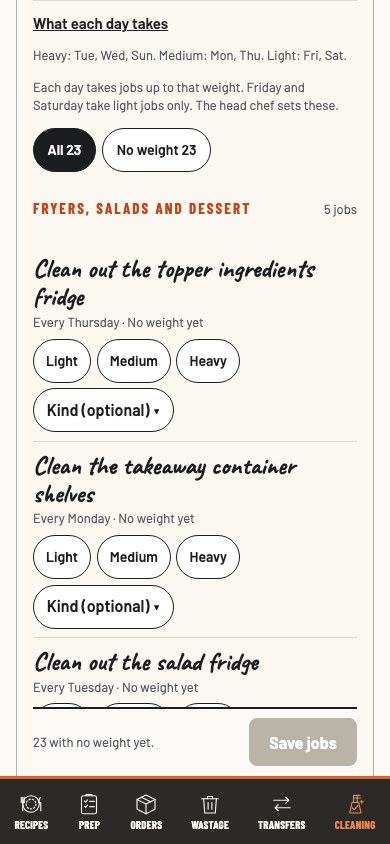
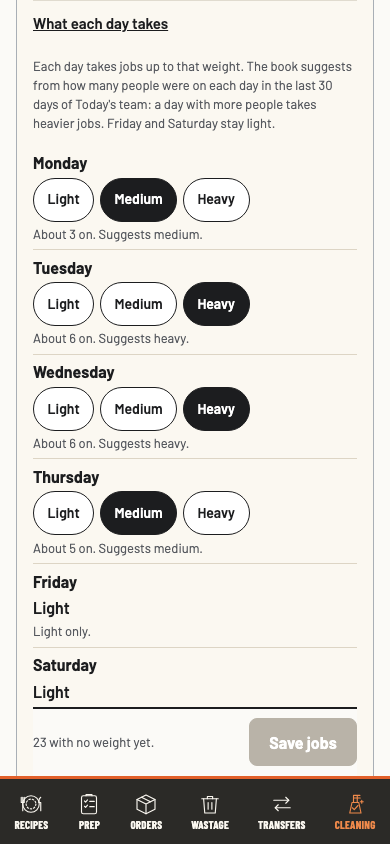
Every chef of the venue sets what each cleaning day takes
Head chef, 26 Nov 2026: "admin, headchef or sous chef of that venue, they will know best
when their busy days are". The sous chefs get the chips and Save the days; the rules go
back to the weights' writers.

Changed region(s): [[0.0615, 0.0616, 0.8923, 0.8318], [0.8308, 0.2464, 0.9231, 0.2773], [0.4308, 0.7085, 0.4615, 0.7393]]

diff --git a/js/cleaning.js b/js/cleaning.js
@@ -533,14 +533,15 @@
   /* What each day takes (head chef, 26 Nov 2026: "sunday Monday Wednesday and Thursday are the heavy days in my pub but
      we can let the admin decide which days are heavy load days and learn then based on what days we have more staff
      on"). Each weekday takes jobs up to light, medium or heavy; Friday and Saturday light only (his rule, 26 Nov).
-     Kept in the same record as d, Sunday first. Until it is saved, the page shows his days. The head chef or the
-     admin changes them (C.head()); the sous chefs read them. The book suggests from staffing: how many people were on
+     Kept in the same record as d, Sunday first. Until it is saved, the page shows his days. The chefs who set the
+     weights set the days too (head chef, 26 Nov 2026: "admin, headchef or sous chef of that venue, they will know best
+     when their busy days are"), each venue its own. The book suggests from staffing: how many people were on
      each weekday in the last 30 days of plans and picks (C.staffing()). Busier days with more people take heavier
      jobs; Friday and Saturday stay light whatever the roster says. A suggestion is never saved on its own. */
   var LEVEL_DEFAULT = [3, 3, 2, 3, 3, 1, 1], DAY_ORDER = [1, 2, 3, 4, 5, 6, 0], QUIET = [5, 6], DAY_NAME = ['Sunday', 'Monday', 'Tuesday', 'Wednesday', 'Thursday', 'Friday', 'Saturday'];
   function dayLevels() { return M.dDraft || M.plan.d || LEVEL_DEFAULT; }
   function daysDirty() { return !!M.dDraft && JSON.stringify(M.dDraft) !== JSON.stringify(M.plan.d || LEVEL_DEFAULT); }
-  function canDays() { return !!(C.head && C.head()); }
+  function canDays() { return !!(C.chef && C.chef()); }
   // a suggestion for Sunday to Thursday: a day with as many people as the middle day, or more, takes heavy; fewer, medium
   function daySuggest(s) {
     if (!s || !s.fresh || !s.avg) return null;
@@ -561,11 +562,9 @@
   function daysSummary() { var lv = dayLevels(); return [3, 2, 1].map(function (n) { var on = DAY_ORDER.filter(function (d) { return lv[d] === n; }).map(function (d) { return DAY_NAME[d].slice(0, 3); }); return on.length ? WEIGHTS[n] + ': ' + on.join(', ') + '.' : ''; }).filter(Boolean).join(' '); }
   function daysBlock() {
     if (M.plan.state !== 'ok') return '';   // drawn only from a record read from the server, never from no answer
-    var lv = dayLevels(), head = canDays(), saved = !!M.plan.d, open = M.daysOpen;
+    var lv = dayLevels(), saved = !!M.plan.d, open = M.daysOpen;
     var html = '<div class="cln-days">' + '<button type="button" class="tm-fold cln-days-fold" data-cln="days-fold" aria-expanded="' + open + '">What each day takes' + (saved ? '' : ' (not saved yet)') + '</button>';
-    if (!open || !head) html += '<p class="hint cln-days-sum">' + esc(daysSummary()) + '</p>';
-    if (!open) return html + '</div>';
-    if (!head) return html + '<p class="hint">Each day takes jobs up to that weight. Friday and Saturday take light jobs only. The head chef sets these.</p></div>';
+    if (!open) return html + '<p class="hint cln-days-sum">' + esc(daysSummary()) + '</p></div>';
     var s = M.staff, sug = s.state === 'ok' ? daySuggest(s) : null;
     var staffWords = function (d) {
       if (QUIET.indexOf(d) >= 0) return 'Light only.';
@@ -595,7 +594,7 @@
     if (!canDays() || M.dBusy || M.plan.state !== 'ok' || !C.planSave) return;
     var d = dayLevels().slice(), model = M; M.dBusy = true; M.dError = ''; patchDays();
     C.planSave(null, null, d).then(function () { if (M !== model) return; M.plan.d = d; M.dDraft = null; M.dBusy = false; M.dSaved = T.now(); patchDays(); },
-      function (error) { if (M !== model) return; M.dBusy = false; M.dError = error && error.code === 'unauthenticated' ? 'Not saved: unlock with your PIN, then press Save the days. Your change is kept here.' : error && error.code === 'permission-denied' ? 'Refused: only the head chef or the admin sets the days. Nothing was saved.' : 'Not saved. ' + (navigator.onLine === false ? 'No signal. ' : '') + 'Press Save the days again.'; patchDays(); });
+      function (error) { if (M !== model) return; M.dBusy = false; M.dError = error && error.code === 'unauthenticated' ? 'Not saved: unlock with your PIN, then press Save the days. Your change is kept here.' : error && error.code === 'permission-denied' ? 'Refused: only the head chef and the sous chefs set the days. Nothing was saved.' : 'Not saved. ' + (navigator.onLine === false ? 'No signal. ' : '') + 'Press Save the days again.'; patchDays(); });
   }
   // a weight or a kind changes this page's work without drawing it again, so nothing moves under the thumb
   function patchWeigh() { var dock = M.root && M.root.querySelector('.cln-weigh-dock'); if (dock) dock.outerHTML = weighDock(); }

diff --git a/tests/cleaning-days.test.js b/tests/cleaning-days.test.js
@@ -1,7 +1,7 @@
 // Cleaning results by section, step 4a (head chef, 26 Nov 2026, docs/cleaning-tracking-options/brief.md): What each day
 // takes. On Weights and days a fold shows what each weekday takes, light to heavy. Until it is saved the page shows his
-// days (Sunday, Monday, Wednesday and Thursday heavy, Tuesday medium, Friday and Saturday light). The head chef or the
-// admin changes them; the sous chefs read them. The book suggests from how many people were on each weekday in the
+// days (Sunday, Monday, Wednesday and Thursday heavy, Tuesday medium, Friday and Saturday light). The head chef, the sous
+// chefs and the admin change them. The book suggests from how many people were on each weekday in the
 // last 30 days (teamsum/main), never saves a suggestion on its own, and says so when the count is old, short or missing.
 // Synthetic jobs and made-up people.
 const L = require('./lib');
@@ -80,7 +80,7 @@ const saved = p => L.waitFor(p, () => /Saved|Refused|Not saved\. /.test((documen
       // refused: the change stays on screen and the page says why
       await p.evaluate(() => { window.__fake.mode = 'deny'; });
       await p.click('[data-cln="day-level"][data-dow="1"][data-w="3"]'); await p.click('[data-cln="days-save"]'); await saved(p);
-      ok(await text(p, '.cln-days-save .hint') === 'Refused: only the head chef or the admin sets the days. Nothing was saved.' && /Monday:Heavy/.test(await pressed(p)) && JSON.stringify((await stored(p)).d) === '[3,2,1,3,2,1,1]', width + ': a refused save says so and keeps the change on screen (' + await text(p, '.cln-days-save .hint') + ')');
+      ok(await text(p, '.cln-days-save .hint') === 'Refused: only the head chef and the sous chefs set the days. Nothing was saved.' && /Monday:Heavy/.test(await pressed(p)) && JSON.stringify((await stored(p)).d) === '[3,2,1,3,2,1,1]', width + ': a refused save says so and keeps the change on screen (' + await text(p, '.cln-days-save .hint') + ')');
       await p.evaluate(() => { window.__fake.mode = 'ok'; });
       await p.click('[data-cln="days-undo"]'); await L.settle(p, 150);
     }
@@ -88,12 +88,15 @@ const saved = p => L.waitFor(p, () => /Saved|Refused|Not saved\. /.test((documen
     ok(!(await p.$('.cln-days')), width + ': with the days saved, Back leaves');
     await p.context().close();
   }
-  // a sous chef reads the days and cannot change them; the team count is not read for them
+  // a sous chef sets the days too, from the same suggestions
   {
     const p = await open(b, { who: 'sam' }, 390, Object.assign(tsum(dayN(0), 28), { [PLAN]: { v: 1, w: {}, d: [3, 2, 3, 3, 2, 1, 1], at: L.NOW - DAY, by: 'head' } }));
     ok(await text(p, '[data-cln="days-fold"]') === 'What each day takes' && await text(p, '.cln-days-sum') === 'Heavy: Tue, Wed, Sun. Medium: Mon, Thu. Light: Fri, Sat.', 'sous chef: the line gives the saved days (' + await text(p, '.cln-days-sum') + ')');
     await fold(p);
-    ok(!(await p.$('.cln-day-list')) && !(await p.$('[data-cln="days-save"]')) && /The head chef sets these\.$/.test(await text(p, '.cln-days')) && !!(await p.$('.cln-days-sum')) && await tsReads(p) === 0, 'sous chef: no chips, no Save, says the head chef sets them; no team count read');
+    ok(/^Monday:Medium\|Tuesday:Heavy/.test(await pressed(p)) && (await staff(p))[0] === 'About 3 on. Suggests medium.' && await tsReads(p) <= 1, 'sous chef: the saved days on the chips, the staffing words, the team count read once (' + await pressed(p) + ')');
+    await p.click('[data-cln="day-level"][data-dow="1"][data-w="3"]'); await p.click('[data-cln="days-save"]'); await saved(p);
+    const s = await stored(p);
+    ok(s && JSON.stringify(s.d) === '[3,3,3,3,2,1,1]' && s.by === 'sam' && /^Saved \d\d:\d\d\.$/.test(await text(p, '.cln-days-save .hint')), 'sous chef: saves a change to the days, by name (' + JSON.stringify(s && { d: s.d, by: s.by }) + ')');
     await p.context().close();
   }
   // the team count is old, short or missing: no suggestion, and the page says why

diff --git a/js/prep.js b/js/prep.js
@@ -2213,22 +2213,19 @@
   // one merged save: only the jobs changed are sent, so a second chef's entries stay. w and k: { root id: value }
   // An empty map in a merged save is a value to Firestore: it would replace the stored map and wipe every entry. So a
   // map is sent only when it holds a change. A kind of '' clears that job's kind (the page reads '' as none).
-  // d: what each weekday takes, Sunday first, 1 light to 3 heavy (step 4, 26 Nov 2026), sent only by the head chef or
-  // the admin, and only whole: the rules check all seven.
+  // d: what each weekday takes, Sunday first, 1 light to 3 heavy (step 4, 26 Nov 2026), set by the same chefs as the
+  // weights, and only whole: the rules check all seven.
   function cleaningPlanSave(w, k, d) {
     var hasW = !!w && typeof w === 'object' && Object.keys(w).length > 0, hasK = !!k && typeof k === 'object' && Object.keys(k).length > 0;
     var hasD = Array.isArray(d) && d.length === 7 && d.every(function (v) { return v === 1 || v === 2 || v === 3; });
     if (!canW()) return Promise.reject(cleaningError('unauthenticated'));   // the PIN session lapsed: unlock, then save
-    if (!cleaningChef() || !(hasW || hasK || hasD) || (hasD && !cleaningHead())) return Promise.reject(cleaningError('permission-denied'));
+    if (!cleaningChef() || !(hasW || hasK || hasD)) return Promise.reject(cleaningError('permission-denied'));
     var data = { v: 1, at: now() };
     if (hasW) data.w = w;
     if (hasK) data.k = k;
     if (hasD) data.d = d.slice();
     return W([['set', docRef('cleaningPlan', 'main'), data, true]]);
   }
-  /* Who says what each weekday takes (head chef, 26 Nov 2026: "let the admin decide which days are heavy load days"):
-     the head chef, or the owner's admin device. The sous chefs see the days and cannot change them. */
-  function cleaningHead() { var c = S.config || {}; return cleaningChef() && (admDev() || (!!S.who && S.who === c.headId)); }
   /* The suggestion for what each weekday takes, from staffing (head chef, 26 Nov 2026: "learn then based on what days
      we have more staff on"). How many people were on each weekday, from teamsum/main: the last 30 days of the chefs'
      plans and the cooks' own picks, written each night. When: the head chef opens What each day takes. Through
@@ -2398,7 +2395,7 @@
       box: function (done) { return done ? TICK : BOX; }, sheetBusy: function () { return sheetOpen() || ksWait || ovBack || dkFirstUp(); }, sheetNext: sheetNext,
       discardAttempt: function () { cleaningAttempt = null; cleaningActionAttempts = Object.create(null); },
       load: cleaningLoad, saveTask: cleaningSave, archiveTask: cleaningArchive, tick: cleaningTick, undo: cleaningUndo, canUndo: cleaningCanUndo,
-      importTasks: cleaningImport, planRead: cleaningPlanRead, planSave: cleaningPlanSave, head: cleaningHead, staffing: cleaningStaffing, act: cleaningAct, newSlot: cleaningNewSlot, due: cleaningDue, who: function () { return S.who; },
+      importTasks: cleaningImport, planRead: cleaningPlanRead, planSave: cleaningPlanSave, staffing: cleaningStaffing, act: cleaningAct, newSlot: cleaningNewSlot, due: cleaningDue, who: function () { return S.who; },
       canVerify: function (task) { return cleaningTickOK() && !!task.plan && task.plan.verification && task.plan.verifiers.indexOf(S.who) >= 0; } };
   }
   /* Supplier workspace (24 Oct 2026). This bridge shares the kitchen's sign-in, writer, clock and pending-write

diff --git a/docs/cleaning-tracking-options/brief.md b/docs/cleaning-tracking-options/brief.md
@@ -352,7 +352,7 @@ Answered on 26 November 2026 by "Yes proceed with your recommendations": build i
 1. ~~Do Sunday, Monday and Wednesday take heavy jobs?~~ Answered: Sunday, Monday, Wednesday and Thursday, and the book learns from staffing (Step 4a below).
 2. "Not just limited to tasks that happen more than once a day": every rhythm, or jobs done at each service?
 3. A shared job that names sections (the pass shelves, behind the deep fryers): which one section owns it?
-4. Who sets what each day takes and presses Suggest the days: ~~the admin, or the chefs?~~ What each day takes: the admin, so the head chef or the admin (Step 4a). Suggest the days: still his call, with step 4b.
+4. Who sets what each day takes and presses Suggest the days: ~~the admin, or the chefs?~~ What each day takes: "admin, headchef or sous chef of that venue" (Step 4a). Suggest the days: still his call, with step 4b.
 5. The two suggested planner rules: keep, change or drop?
 
 Who was rostered is no longer a question for him: step 1 keeps both the closing plan and a cook's own pick, each with its source.
@@ -366,7 +366,7 @@ Who was rostered is no longer a question for him: step 1 keeps both the closing 
 | 1 | The nightly count: the release switch and the first night, weekly and monthly jobs by root id with section, who did it and who was rostered, the size check inside the cleaning block | [#890](https://github.com/KuschiKuschbert/leichhardt-kitchen/pull/890), merged 26 November 2026. What it keeps: [the cleaning note](../cleaning-schedule.md#what-the-nightly-count-keeps) |
 | 2 | The Inbox row and that night in Records | Built, 26 November 2026. What the admin sees: [the cleaning note](../cleaning-schedule.md#what-the-admin-sees-of-it). As built: `built/` |
 | 3 | The weights list, weights in one side record | Built 26 November 2026: weights and the optional kind. What each day takes is in the same record's rule, set with step 4. [The cleaning note](../cleaning-schedule.md#weights-and-days) |
-| 4a | What each day takes: his days until changed, set by the head chef or the admin, a suggestion from staffing | Built 26 November 2026. [The cleaning note](../cleaning-schedule.md#what-each-day-takes); quick check below |
+| 4a | What each day takes: his days until changed, set by each venue's chefs, a suggestion from staffing | Built 26 November 2026. [The cleaning note](../cleaning-schedule.md#what-each-day-takes); quick check below |
 | 4b | Suggested days, in bulk only while Cleaning is off, fewest moves | To come |
 | 4c | A suggested day in the Add form after switch-on, with the "today means tonight" warning | To come |
 
@@ -375,7 +375,7 @@ Who was rostered is no longer a question for him: step 1 keeps both the closing 
 The council drew what each day takes as a row of seven levels on the weights list (`m1`, `m2`) and asked the head chef questions 1 and 4. His answer (26 November 2026) added something the council did not see: "learn then based on what days we have more staff on". So step 4 is split: 4a sets the days, 4b suggests the jobs' days, 4c is the Add form. 4a adds no page, tab, button bar or pop-up; it is a fold on a view the council chose. Quick check, no new review round.
 
 - **Is it needed?** Yes: step 4b cannot suggest a day without knowing what each day takes, and he asked for it to learn.
-- **Taps.** Head chef: Repeat tasks, Weights and days, What each day takes, Use the suggestions, Save the days: 4 taps from Repeat tasks; one tap more for each day he changes by hand. A sous chef reads the days in the line under the fold with no tap.
+- **Taps.** Head chef: Repeat tasks, Weights and days, What each day takes, Use the suggestions, Save the days: 4 taps from Repeat tasks; one tap more for each day changed by hand. A sous chef the same. With the fold closed, the line under it gives the days with no tap.
 - **Lines.** Implemented app, click-test stand-in, synthetic jobs and a made-up team count (`built/days-shots.cjs`, `built/days-counts.json`). Closed, the fold and its line are 64 px: whole job rows on the first screen go from 0 to 0 at 390 x 844, 3 to 2 at 768 x 900 and 4 to 3 at 1280 x 900; the list is 6.3 screens at 390, was 6.2. Open, the days are 922 px at 390 (1.1 screens) and 656 px at 1280. A desk job, done once, so worth the row.
 - **Contract fit.** Works: chips and the fold are existing patterns; chosen is ink, words carry every state ("Not saved.", "Saved 14:05.", "Refused: ..."), the summary line and "Light only" say it without colour; every control is 44 px; no sideways scroll at 390, 768 and 1280. The days have their own Save line, not the list's Save bar, so "Save jobs" and "Save the days" never share a button. Not evidenced: contrast was not measured again (no new colour; the chips and hint are the step 3 ones).
 - **Reference fit.** Todoist: known defaults visible and editable (his days, shown before anything is saved). Flighty: the staffing words come from data the page may already hold, never stale as live ("The team count is not up to date"). Duolingo: each tap answers at once, Saved only after the write. Headspace: "About 6 on. Suggests heavy." in plain words.
@@ -385,9 +385,9 @@ Break-it findings, each checked in `tests/cleaning-days.test.js` (stand-in) or `
 
 | Scenario | Expected | Observed |
 | --- | --- | --- |
-| A sous chef writes `d` by hand | Refused | Checked on the emulator: refused, first save or change; a sous chef's weight save leaves the days |
+| Staff write `d` by hand | Refused | Checked on the emulator: refused. A weight save leaves the days, a days save the weights |
 | Another chef saves weights while the head chef has unsaved days | Both kept | Checked: one merged write keeps the other chef's weight |
-| A refused save | Says so, keeps the change | Checked: "Refused: only the head chef or the admin sets the days. Nothing was saved." with the chip still on |
+| A refused save | Says so, keeps the change | Checked: "Refused: only the head chef and the sous chefs set the days. Nothing was saved." with the chip still on |
 | Back with unsaved days | Stays and says so | Checked, focus on Save the days |
 | An old, short, missing or unreadable team count | No suggestion, the reason in words | Checked for all four; a failed read is never "no count" |
 | A roster that is busy on Friday | Friday stays light | Checked: Friday and Saturday never take a suggestion |

diff --git a/README.md b/README.md
@@ -229,7 +229,7 @@ This guide is bundled with the book, searchable and readable without extra Fires
 - **The audit's fixes (14 Nov 2026).** An order request already open today is not added again (Add anyway on the slip). Every suggestion is counted, with changes after the guess, in the admin's Smart features. Reports, Transfers keeps loans older than its days, and the Insights and wastage CSVs have On it and amount changes. Records keeps each day's Operandio cooling batch (who started and confirmed each stage, from the nightly job). [Brief](docs/smart-book-options/brief.md).
 - **Print cards (19 Nov 2026, head chef choice after the council).** The head chef, sous chefs and admin print paper recipe cards: Print cards in Manage Recipes (tick cards, or add Specials, a menu section, Batch recipes or Every card) and Print this card beside Change this recipe on a recipe. Paper A4 upright, A4 sideways or A5 sideways, kept on the device. Paper and group choices keep keyboard focus. Each card starts on a new page; a card just over a page takes slightly smaller type before it splits, a list never breaks through a row or a step, and every page repeats the card number, name, page x of y, the allergens in a box and the print time with "Check the book for the latest". Amounts as written (x1); unconfirmed ones say [To come]. A tap on Print or a card says so at once; the cards are laid out after it, one card at a time (24 Nov 2026). No reads or writes; `js/recipe-print.js` and `css/recipe-print.css` load only when a chef opens it. [Brief, council and build](docs/print-cards-options/brief.md).
 - **Filled for you and Records (13 Nov 2026, head chef choice after the smarter-book audit).** On Wastage and Transfers an item typed in full fills what describes it from its last 2 weeks (Wastage: section, reason, unit; Transfers: unit), never the amount, with a LAST TIME tag, one line saying what was filled and Empty these boxes; Log it says what it saves. Orders names its usual amount fill under the box. Reports, Records lists each finished day's deliveries and cleaning (missed, not possible, awaiting Pass check) from the nightly count, opens a day in time order (Food safety, or Everything), and prints a month or a day: 1 read to open. The month name sits with the month buttons, and Print this month and Export CSV remain directly available. [Brief, council and build](docs/smart-book-options/brief.md).
-- **Weights and days for cleaning jobs (26 Nov 2026, head chef, results by section, step 3 of 4).** Repeat tasks says how many weekly and monthly cleaning jobs have no weight yet, and Weights and days lists them by section: Light, Medium or Heavy and an optional kind on each, one Save. Only the head chef and the sous chefs see it. The weights are kept in one record by each job's lasting id, so a job moved to another day keeps its weight. Step 4 uses them to suggest days. Step 4a adds What each day takes: his days (Sunday, Monday, Wednesday and Thursday heavy, Tuesday medium, Friday and Saturday light) until the head chef or the admin changes them, with a suggestion for each day from how many people were on it in the last 30 days. [Contract](docs/cleaning-schedule.md#weights-and-days).
+- **Weights and days for cleaning jobs (26 Nov 2026, head chef, results by section, step 3 of 4).** Repeat tasks says how many weekly and monthly cleaning jobs have no weight yet, and Weights and days lists them by section: Light, Medium or Heavy and an optional kind on each, one Save. Only the head chef and the sous chefs see it. The weights are kept in one record by each job's lasting id, so a job moved to another day keeps its weight. Step 4 uses them to suggest days. Step 4a adds What each day takes: his days (Sunday, Monday, Wednesday and Thursday heavy, Tuesday medium, Friday and Saturday light) until the head chef, a sous chef or the admin changes them, with a suggestion for each day from how many people were on it in the last 30 days. [Contract](docs/cleaning-schedule.md#weights-and-days).
 - **Missed cleaning in the Inbox and in Records, by section (26 Nov 2026, head chef, results by section, step 2 of 4).** When a weekly or monthly cleaning job was missed last night, the admin's Inbox has one row for the night: Missed, the sections and their jobs, and the date. It names no person. Open that night goes to Reports, Records on that day, at Weekly and monthly jobs, by section: the section with a miss first, when that job was missed before and last done, and the section's other jobs. No person's name is on the page until you open a section's fold: there, who was on that section, from the plan and from each cook's own pick, and who did its jobs. The Inbox says nothing while Cleaning is not switched on, and "Not counted yet" before the nightly run. No new read. [Contract](docs/cleaning-schedule.md#what-the-admin-sees-of-it), [brief](docs/cleaning-tracking-options/brief.md).
 - **The cleaning count starts when Cleaning is switched on (26 Nov 2026, head chef, results by section, step 1 of 4).** The nightly count now covers a day only from the day it first finds Cleaning switched on for the team. Every earlier day reads "Cleaning: not counted" in Records, so cleaning jobs loaded before switch-on never show as missed. The day Cleaning is switched on is not counted; the next one is. For each weekly or monthly job the count also keeps its section, whether it was done and who did it, and for a section with a missed job who was on that day, from the plan and from each cook's own pick. The Inbox row and the Records night above read them. [Contract](docs/cleaning-schedule.md#what-the-nightly-count-keeps), [brief](docs/cleaning-tracking-options/brief.md).
 - **Complete Records and Transfers exports (23 Nov 2026).** Records keeps the selected day while you retry a read. In Everything, Print this day and Export CSV become available once the nightly count and all sections load. Food safety still uses the nightly record. Transfers flags missing dates and enables Download CSV once the selected dates and earlier outstanding transfers load. Refresh keeps the period and venue. An open Export menu stays open when a late read redraws the page (24 Nov 2026). [Report exports](docs/report-exports.md)

diff --git a/docs/head-chef-decisions.md b/docs/head-chef-decisions.md
@@ -2,7 +2,7 @@
 
 - **26 November 2026, the Functions fold on five more pages.** Shown the step 2 findings on the 1920 x 1080 section screens, the head chef said "Yes all recommendations". Wastage, Transfers, Cleaning, Today's team and the recipe card now open with Orders' fold: one 50 px line on a routine day instead of the 218 px band, opening by itself for a cancellation, move, change, kitchen comment, a trip waiting for you, a short-notice order, a round due within the hour, No signal or Could not load. Show on one fold page lasts for that person and kitchen day on every fold page. This changes 22 October 2026 (the full band on every page) and widens 23 November 2026 (the fold on Orders). The Recipes list, Home and the other pages keep the full band and its minus; Prep keeps its strip. [Decision and measurements](band-options/brief.md#the-fold-on-five-more-pages-26-november-2026).
 
-- **26 November 2026, what each day takes: his days first, set by the head chef, suggested from staffing.** Asked which days take heavy cleaning jobs, the head chef said: "Yeah sunday Monday Wednesday and Thursday are the heavy days in my pub but we can let the admin decide which days are heavy load days and learn then based on what days we have more staff on to have a smart distribution?" So Weights and days has What each day takes: until it is saved, Sunday, Monday, Wednesday and Thursday take heavy jobs, Tuesday medium, Friday and Saturday light only (his rule from the scope). The head chef or the admin changes the days; the sous chefs read them. The book suggests a day's level from how many people were on that weekday in the last 30 days of Today's team (more people, heavier jobs), and only when there are three weeks of that day; a suggestion goes in only when he taps Use the suggestions, and nothing saves until Save the days. This answers the brief's questions 1 and 4 (`docs/cleaning-tracking-options/brief.md`, Step 4a). Detail: `docs/cleaning-schedule.md`, What each day takes.
+- **26 November 2026, what each day takes: his days first, set by each venue's chefs, suggested from staffing.** Asked which days take heavy cleaning jobs, the head chef said: "Yeah sunday Monday Wednesday and Thursday are the heavy days in my pub but we can let the admin decide which days are heavy load days and learn then based on what days we have more staff on to have a smart distribution?" So Weights and days has What each day takes: until it is saved, Sunday, Monday, Wednesday and Thursday take heavy jobs, Tuesday medium, Friday and Saturday light only (his rule from the scope). Asked whether "the admin" meant his device only, he said: "well admin, headchef or sous chef of that venue, they will know best when their busy days are" (spelling tidied). So the head chef, the sous chefs and the admin change the days, as they set the weights, each venue its own. The book suggests a day's level from how many people were on that weekday in the last 30 days of Today's team (more people, heavier jobs), and only when there are three weeks of that day; a suggestion goes in only when he taps Use the suggestions, and nothing saves until Save the days. This answers the brief's questions 1 and 4 (`docs/cleaning-tracking-options/brief.md`, Step 4a). Detail: `docs/cleaning-schedule.md`, What each day takes.
 
 - **26 November 2026, Cleaning goes on at Leichhardt first, then the Strand; a missed job is called "Missed".** Asked whether Cleaning is switched on at the Strand, the head chef said: "When cleaning is on for Leichhardt we can turn cleaning on for strand too". So each venue's cleaning count starts the day after its own switch is turned on, Leichhardt first. Asked which word the results use for a job nobody ticked, he agreed to keep "Missed", the word Records and Cleaning already use, with "not ticked by midnight" as its explanation ("That's fine"). [Brief](cleaning-tracking-options/brief.md).
 

diff --git a/docs/cleaning-schedule.md b/docs/cleaning-schedule.md
@@ -80,7 +80,7 @@ Results by section, step 3 of 4 (head chef, 26 November 2026, [brief](cleaning-t
 Step 4a (head chef, 26 November 2026: "let the admin decide which days are heavy load days and learn then based on what days we have more staff on"). Each weekday takes jobs up to light, medium or heavy. Step 4b uses it to suggest days.
 
 - **Where.** A fold at the top of Weights and days, What each day takes, closed until asked for, with one line under it: "Heavy: Mon, Wed, Thu, Sun. Medium: Tue. Light: Fri, Sat." Until the days are saved the fold says "(not saved yet)" and the page shows the starting days, his for Leichhardt: Sunday, Monday, Wednesday and Thursday heavy, Tuesday medium, Friday and Saturday light.
-- **Who.** The head chef, or the admin on the owner's device (`cleaningHead()` in `js/prep.js`), sees a row a day, Monday first, with Light, Medium and Heavy. Friday and Saturday are fixed at light ("Light only"). A sous chef sees the line and "The head chef sets these", no chips. The rules hold it too: a write that changes `d` must be the head chef's or the admin's; a sous chef's save of weights leaves the days as they were.
+- **Who.** The chefs who set the weights, each venue its own: the head chef, the sous chefs and the admin ("admin, headchef or sous chef of that venue, they will know best when their busy days are"). Each sees a row a day, Monday first, with Light, Medium and Heavy. Friday and Saturday are fixed at light ("Light only"). Staff never see Weights and days. A save of weights leaves the days as they were, and a save of the days leaves the weights.
 - **The suggestion.** Opening the fold reads the team count once (`cleaningStaffing()`: `teamsum/main`, the last 30 days of the closing plans and the cooks' own picks, written each night; no read when the page already holds today's). Each Sunday to Thursday says "About 6 on" from the distinct people each day, averaged by weekday and shown whole, and a suggestion: as many people as the middle day or more, heavy; fewer, medium. A day with fewer than three counted days says "Not enough weeks yet". A count older than yesterday says "The team count is not up to date", none says "No team count yet", a failed read says "Could not read the team": none of them suggests. Use the suggestions fills the chips; nothing is saved by it.
 - **Saving.** Save the days sends all seven, Sunday first, in the same merged write as the weights, so the weights stay. It is on before the first save, so he can keep his days as they are. It answers Saved with the time, or says it was refused and keeps the change on screen. Unsaved days are the page's work like unsaved weights: Back, Today, Week or Repeat tasks says "Save the days, or Undo, before leaving" and stays.
 

diff --git a/docs/session-map.md b/docs/session-map.md
@@ -33,7 +33,7 @@ Step 2, the Inbox row and that night in Records: `cleanCount()` and `cleanNeed()
 
 Step 3, Weights and days: `cleaningPlan/{id}` in `firestore.rules` (one record, `main`), `cleaningPlanRead()` and `cleaningPlanSave()` in `js/prep.js` (on the Cleaning bridge as `planRead`, `planSave`; in the owner's backup), `weightsNotice()`, `weightsPage()`, `saveWeights()` and `patchWeigh()` in `js/cleaning.js`, `.cln-weigh-*` in `css/app.css`, `scripts/nightly-backup.mjs`. Checked by `tests/cleaning-weights.test.js` (new), `tests/rules/cleaning.test.mjs`, `tests/rules/client-shapes.test.mjs`, `scripts/backup-recovery-check.mjs`.
 
-Step 4a, What each day takes (26 Nov 2026, his days and the staffing suggestion): `d` in `cleaningPlan/main`, changed only by the head chef or the admin (`cleanPlanDays()` in `firestore.rules`); `cleaningHead()`, `cleaningStaffing()` and `cleaningPlanSave(w, k, d)` in `js/prep.js` (bridge `head`, `staffing`); `daysBlock()`, `daySuggest()`, `loadStaff()`, `patchDays()` and `saveDays()` in `js/cleaning.js`; `.cln-day*` in `css/app.css`. Checked by `tests/cleaning-days.test.js` (new) and `tests/rules/cleaning.test.mjs`. Pictures: `docs/cleaning-tracking-options/built/days-*`.
+Step 4a, What each day takes (26 Nov 2026, his days and the staffing suggestion): `d` in `cleaningPlan/main`, set by the same chefs as the weights; `cleaningStaffing()` (through `tsLoad()`) and `cleaningPlanSave(w, k, d)` in `js/prep.js` (bridge `staffing`); `daysBlock()`, `daySuggest()`, `loadStaff()`, `patchDays()` and `saveDays()` in `js/cleaning.js`; `.cln-day*` in `css/app.css`. Checked by `tests/cleaning-days.test.js` (new) and `tests/rules/cleaning.test.mjs`. Pictures: `docs/cleaning-tracking-options/built/days-*`.
 
 Open with the head chef: whether Sunday, Monday and Wednesday take heavy jobs, which section owns a shared job that names two, who sets what each day takes, and the lead's two suggested planner rules.
 

diff --git a/docs/firestore-usage.md b/docs/firestore-usage.md
@@ -46,7 +46,7 @@ Since 14 November 2026 Reports, Transfers also reads the loans still out (`trans
 
 ## Cleaning schedule extension, 9 November 2026
 
-What each day takes (26 November 2026, results by section, step 4a): the head chef or the admin opening the fold on Weights and days reads `teamsum/main` once (`cleaningStaffing()`), none when the page already holds today's count. The days are saved in the same `cleaningPlan/main` record and write as the weights do: one merged write per Save.
+What each day takes (26 November 2026, results by section, step 4a): a chef opening the fold on Weights and days reads `teamsum/main` once (`cleaningStaffing()`), none when the page already holds today's count. The days are saved in the same `cleaningPlan/main` record and write as the weights do: one merged write per Save.
 
 The chosen [M1 chef layout](cleaning-chef-options/implementation.md) adds no query, listener, persistent private cache or schema. Groups, six-row pages and global search use the loaded tasks. Repeat tasks reuses the loaded range, including existing post-save refreshes. Explicit import results identify their today-only range so returning to Week reloads the correct bounded week. Named same-range work-return actions do not schedule an extra refresh during a pending write.
 
